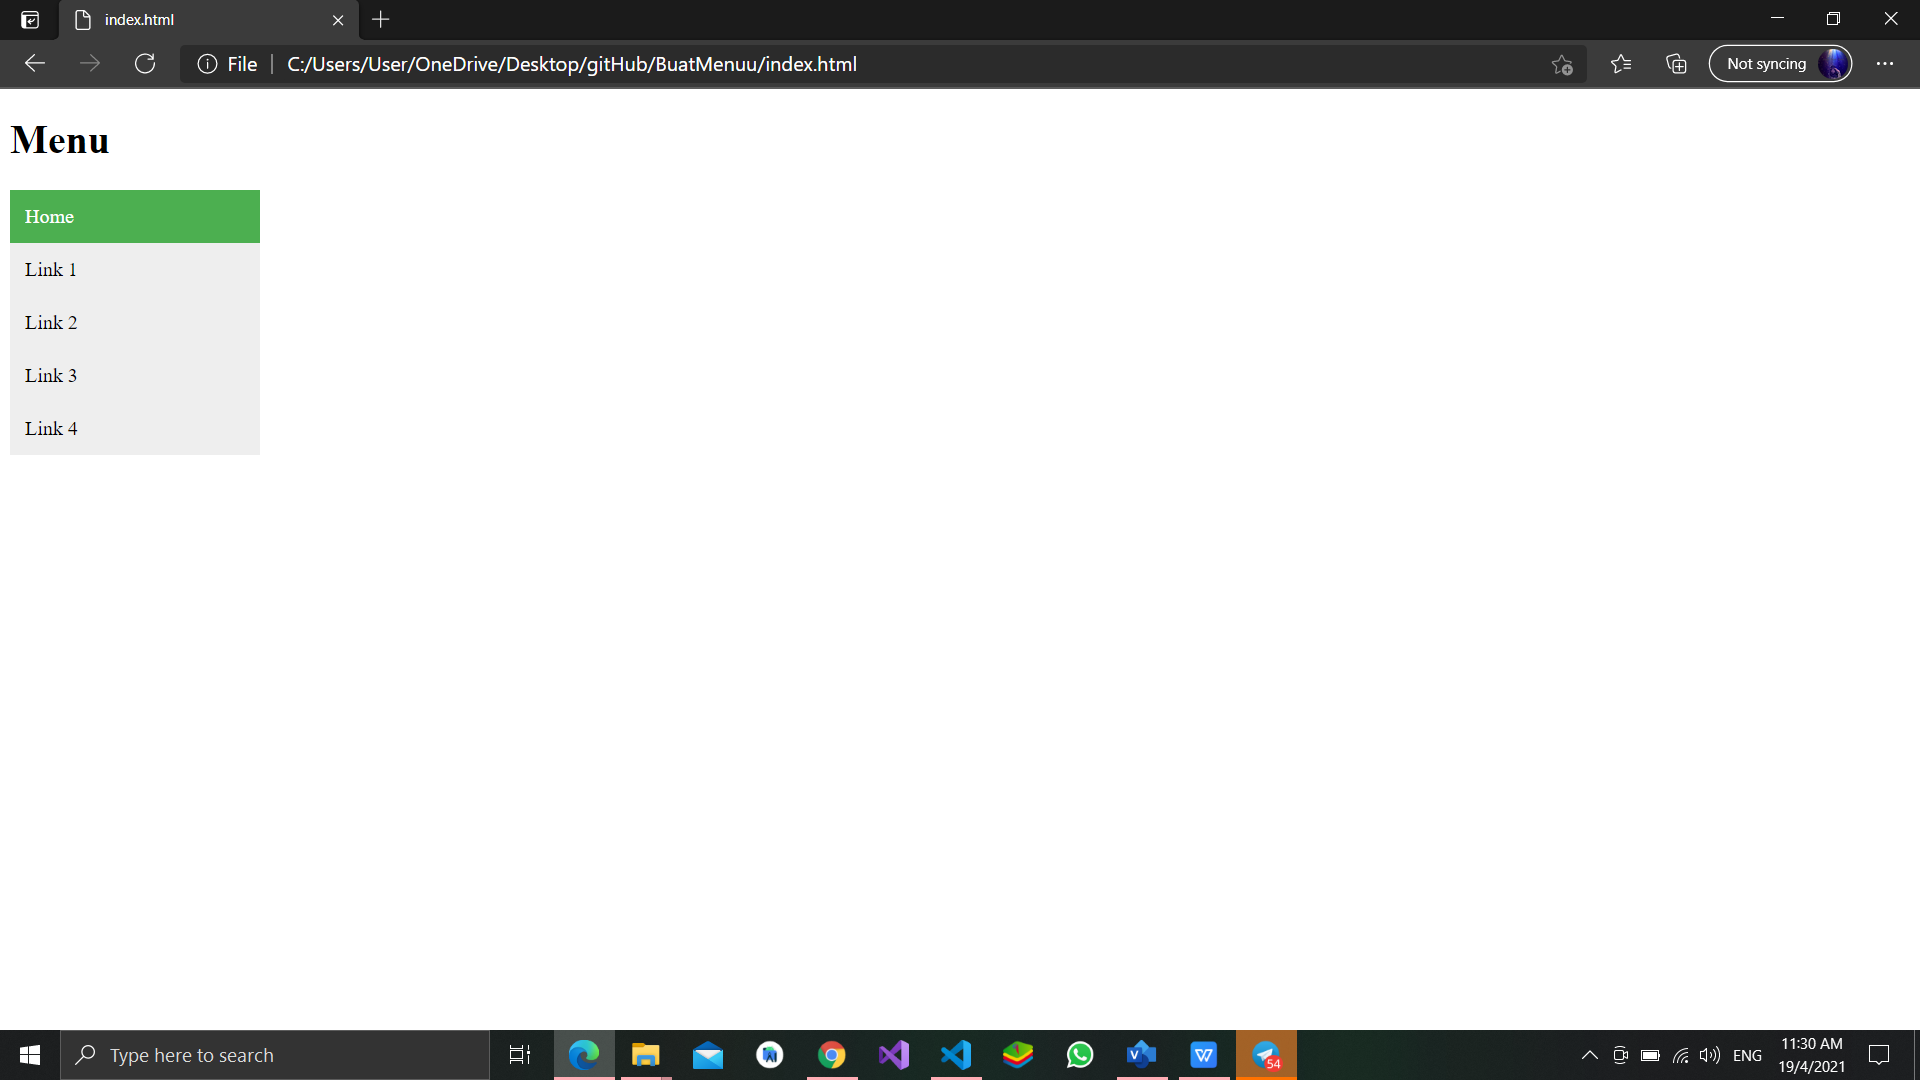
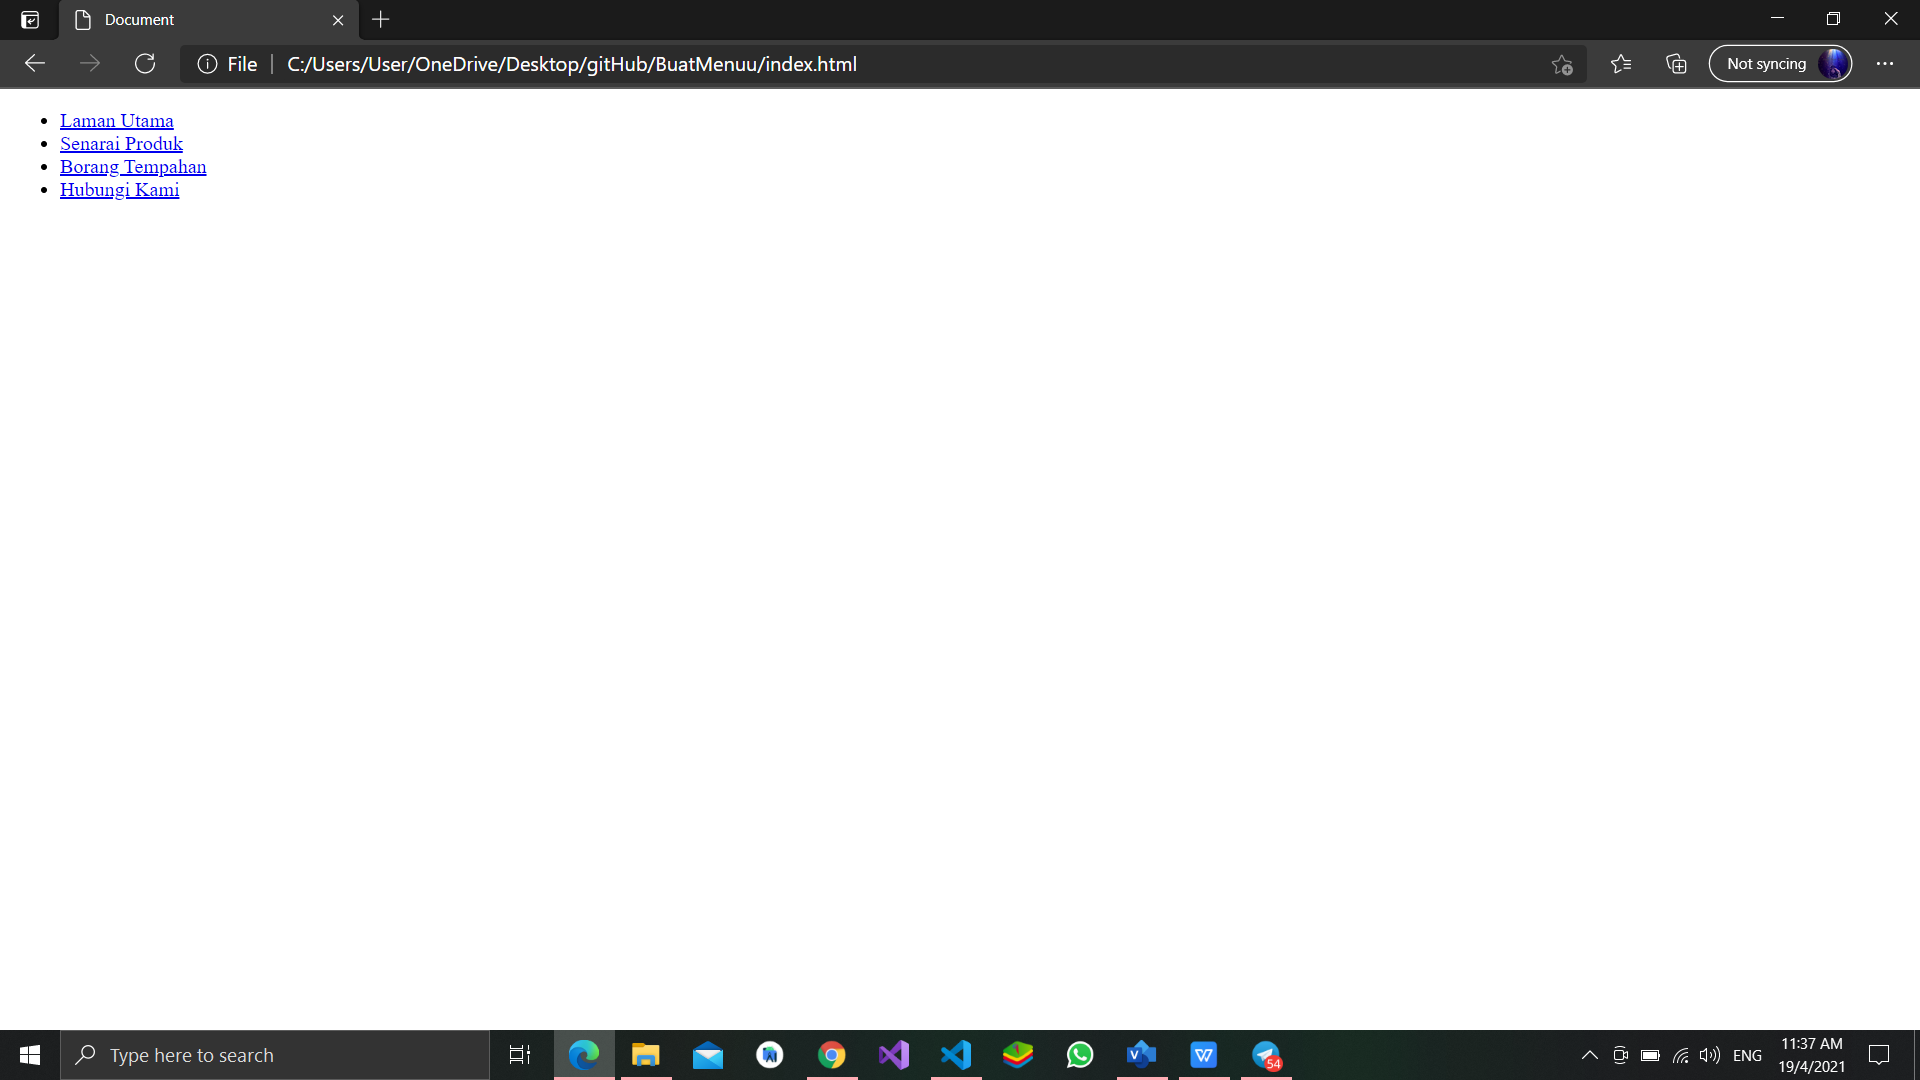
menu tanpa css

diff --git a/index.html b/index.html
@@ -1,41 +1,18 @@
 <!DOCTYPE html>
-<html>
+<html lang="en">
 <head>
-<meta name="viewport" content="width=device-width, initial-scale=1">
-<style>
-.vertical-menu {
-  width: 200px;
-}
-
-.vertical-menu a {
-  background-color: #eee;
-  color: black;
-  display: block;
-  padding: 12px;
-  text-decoration: none;
-}
-
-.vertical-menu a:hover {
-  background-color: #ccc;
-}
-
-.vertical-menu a.active {
-  background-color: #4CAF50;
-  color: white;
-}
-</style>
+    <meta charset="UTF-8">
+    <meta http-equiv="X-UA-Compatible" content="IE=edge">
+    <meta name="viewport" content="width=
+    , initial-scale=1.0">
+    <title>Document</title>
 </head>
 <body>
-
-<h1>Menu</h1>
-
-<div class="vertical-menu">
-  <a href="#" class="active">Home</a>
-  <a href="#">Link 1</a>
-  <a href="#">Link 2</a>
-  <a href="#">Link 3</a>
-  <a href="#">Link 4</a>
-</div>
-
+    <ul>
+        <li><a href="#utama">Laman Utama</a></li>
+        <li><a href="#produk">Senarai Produk</a></li>
+        <li><a href="#tempah">Borang Tempahan</a></li>
+        <li><a href="#hubungi">Hubungi Kami</a></li>
+    </ul>
 </body>
 </html>
